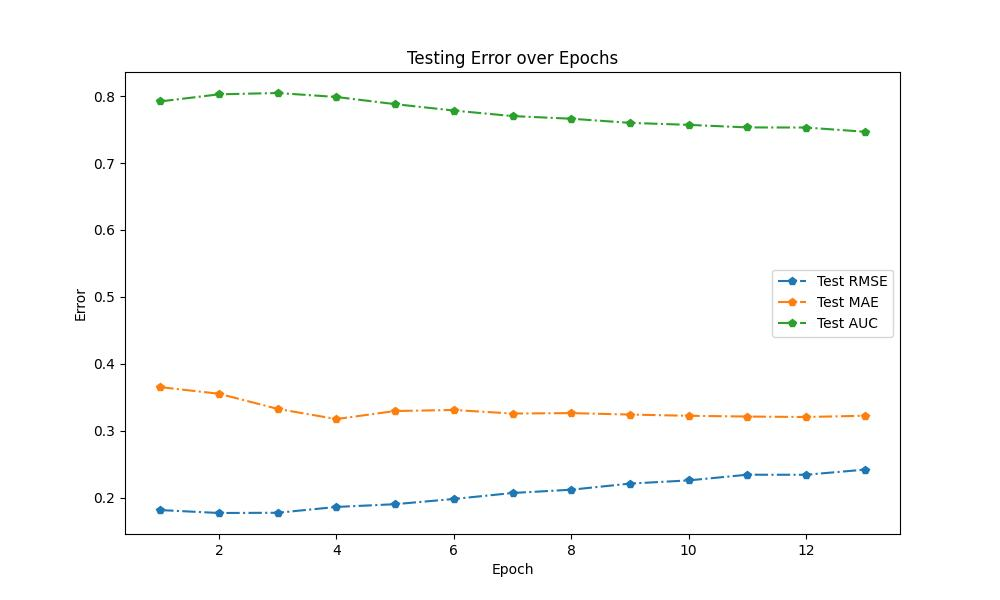
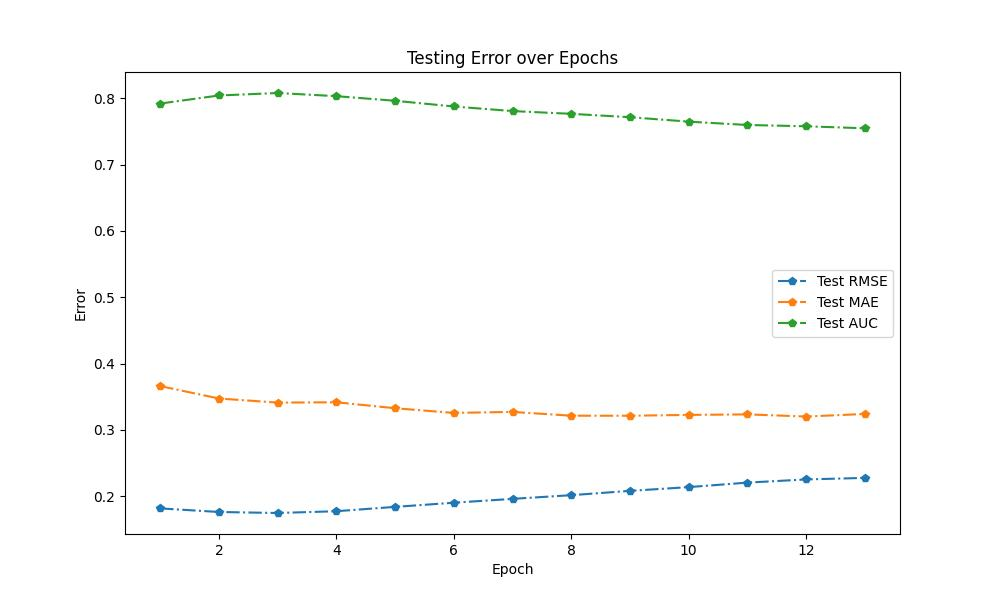
sota

diff --git a/Tools/Parameter.py b/Tools/Parameter.py
@@ -37,7 +37,7 @@ user_similarity_matrices_path = "Output/UserSimMat.pkl"
 ncf_config = {
     "epoches": 50,
     "lr": 1e-3,
-    "batch_size": 1024,
+    "batch_size": 512,
     "kwargs": {
         'embed_size':128,
         'hidden_nbs':[512, 1024, 512],
